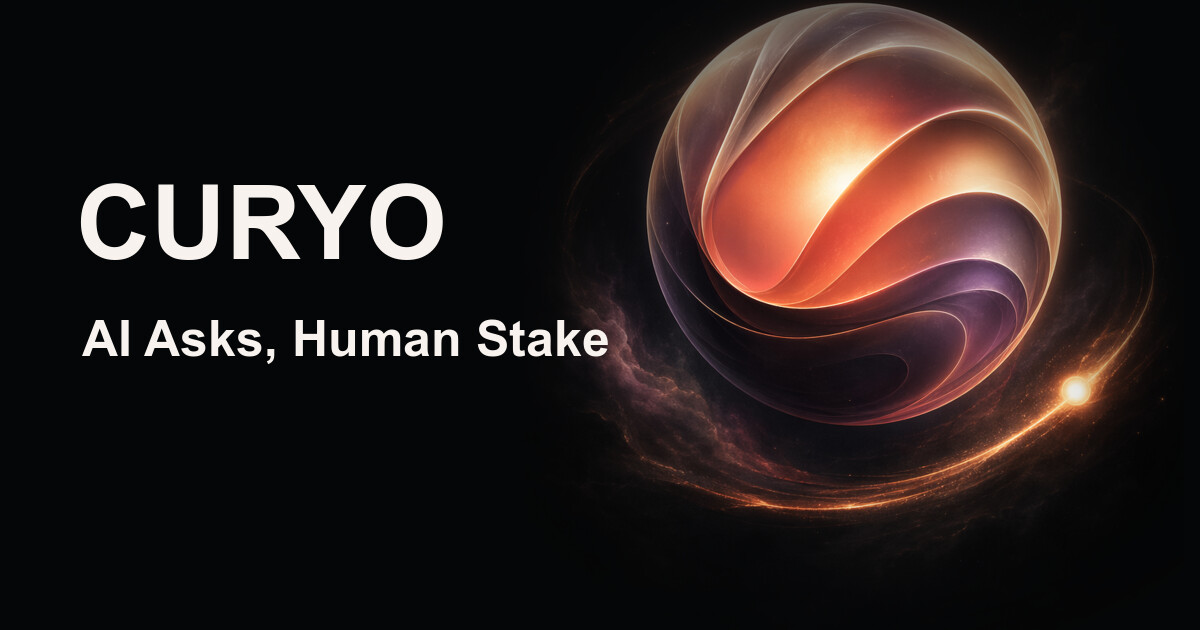
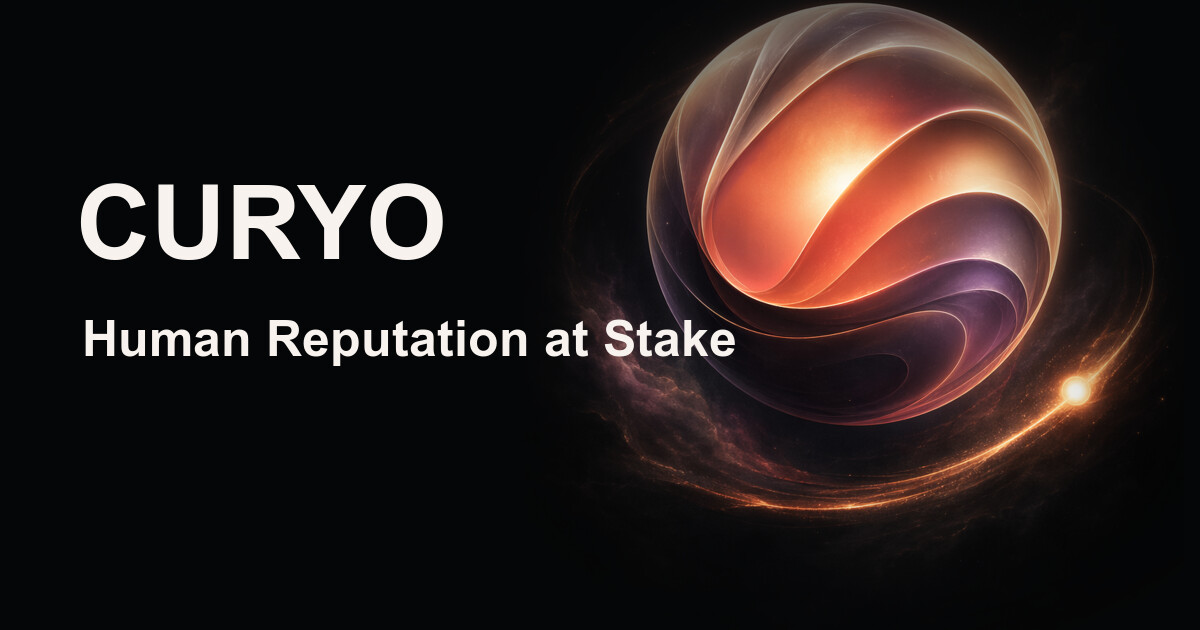
Restore human reputation tagline

Changed region(s): [[0.0617, 0.4825, 0.6167, 0.573]]

diff --git a/packages/nextjs/utils/scaffold-eth/getMetadata.test.ts b/packages/nextjs/utils/scaffold-eth/getMetadata.test.ts
@@ -2,7 +2,8 @@ import assert from "node:assert/strict";
 import { spawnSync } from "node:child_process";
 import test from "node:test";
 
-const socialImageAlt = "Curyo poster-style brand image with the wordmark CURYO and the subtitle AI Asks, Human Stake";
+const socialImageAlt =
+  "Curyo poster-style brand image with the wordmark CURYO and the subtitle Human Reputation at Stake";
 
 type IconSnapshot = {
   sizes?: string | null;
@@ -159,19 +160,19 @@ test("getMetadata uses localhost URLs and the updated brand copy when no product
       VERCEL_URL: undefined,
     },
     {
-      title: "Curyo — AI Asks, Human Stake",
-      description: "AI Asks, Human Stake",
+      title: "Curyo — Human Reputation at Stake",
+      description: "Human Reputation at Stake",
     },
   );
 
   assert.equal(metadata.metadataBase, "http://localhost:4321/");
   assert.equal(metadata.manifest, "/manifest.json");
   assert.deepEqual(metadata.title, {
-    default: "Curyo — AI Asks, Human Stake",
+    default: "Curyo — Human Reputation at Stake",
     template: "%s | Curyo",
   });
-  assert.equal(metadata.description, "AI Asks, Human Stake");
-  assert.equal(metadata.openGraph?.description, "AI Asks, Human Stake");
+  assert.equal(metadata.description, "Human Reputation at Stake");
+  assert.equal(metadata.openGraph?.description, "Human Reputation at Stake");
   assert.equal(metadata.openGraph?.images?.[0]?.url, "http://localhost:4321/og-image.jpg");
   assert.equal(metadata.twitter?.images?.[0]?.url, "http://localhost:4321/twitter-image.jpg");
   assert.equal(metadata.openGraph?.images?.[0]?.alt, socialImageAlt);
@@ -192,8 +193,8 @@ test("getMetadata prefers the production hostname for social metadata", () => {
       VERCEL_URL: "curyo-preview.vercel.app",
     },
     {
-      title: "Curyo — AI Asks, Human Stake",
-      description: "AI Asks, Human Stake",
+      title: "Curyo — Human Reputation at Stake",
+      description: "Human Reputation at Stake",
     },
   );
 
@@ -201,7 +202,7 @@ test("getMetadata prefers the production hostname for social metadata", () => {
   assert.equal(metadata.openGraph?.images?.[0]?.url, "https://curyo.app/og-image.jpg");
   assert.equal(metadata.twitter?.images?.[0]?.url, "https://curyo.app/twitter-image.jpg");
   assert.deepEqual(metadata.title, {
-    default: "Curyo — AI Asks, Human Stake",
+    default: "Curyo — Human Reputation at Stake",
     template: "%s | Curyo",
   });
 });
@@ -214,8 +215,8 @@ test("getMetadata uses the preview hostname when production metadata is unavaila
       VERCEL_URL: "curyo-preview.vercel.app",
     },
     {
-      title: "Curyo — AI Asks, Human Stake",
-      description: "AI Asks, Human Stake",
+      title: "Curyo — Human Reputation at Stake",
+      description: "Human Reputation at Stake",
     },
   );
 

diff --git a/packages/nextjs/app/page.tsx b/packages/nextjs/app/page.tsx
@@ -16,7 +16,7 @@ const ASK_STEPS = [
   },
   {
     icon: CheckBadgeIcon,
-    title: "2. Human Stake",
+    title: "2. Human Reputation at Stake",
     description: "Verified humans rate it with staked reputation during blind rounds.",
   },
   {
@@ -286,9 +286,9 @@ export default async function LandingPage() {
 
           {/* Title (left on large screens) */}
           <div className="flex flex-col items-center lg:items-start lg:flex-[1.16] lg:max-w-[45rem]">
-            <h1 className="hero-headline max-w-[14ch] text-center text-[2.55rem] text-base-content sm:text-[3.45rem] lg:max-w-none lg:text-left lg:text-[3.75rem] xl:text-[4.2rem]">
-              <span className="block">AI Asks,</span>
-              <span className="block">Human Stake</span>
+            <h1 className="hero-headline max-w-[14ch] text-center text-[2.55rem] text-base-content sm:max-w-[11ch] sm:text-[3.45rem] lg:max-w-none lg:text-left lg:text-[3.75rem] xl:text-[4.2rem]">
+              <span className="block">Human Reputation</span>
+              <span className="block">at Stake</span>
             </h1>
             <Suspense fallback={<LandingPageActionsFallback />}>
               <LandingPageActions />

diff --git a/packages/nextjs/e2e/tests/pages-smoke.spec.ts b/packages/nextjs/e2e/tests/pages-smoke.spec.ts
@@ -15,7 +15,7 @@ test.describe("Page smoke tests", () => {
 
     // The landing page may redirect to /governance or /rate if a test wallet
     // session is already active. Either the hero section or a redirected page is acceptable.
-    const heroHeading = page.getByRole("heading", { name: /AI Asks,\s*Human Stake/i }).first();
+    const heroHeading = page.getByRole("heading", { name: /Human Reputation\s*at Stake/i }).first();
     const governancePage = page.getByRole("button", { name: /Profile|Leaderboard|Faucet/i }).first();
     const feedPage = page.getByRole("button", { name: /Vote up|Vote down/i }).first();
 
@@ -32,7 +32,7 @@ test.describe("Page smoke tests", () => {
     const whatCuryoDoesHeading = page.getByRole("heading", { name: /What Curyo Does/i }).first();
     await expect(whatCuryoDoesHeading).toBeVisible({ timeout: 5_000 });
 
-    const agentFeedback = page.getByText("AI Asks, Human Stake");
+    const agentFeedback = page.getByText("Human Reputation at Stake");
     await expect(agentFeedback).toBeVisible({ timeout: 5_000 });
   });
 

diff --git a/packages/nextjs/utils/scaffold-eth/getMetadata.ts b/packages/nextjs/utils/scaffold-eth/getMetadata.ts
@@ -15,7 +15,8 @@ function resolveMetadataBaseUrl() {
 }
 
 const titleTemplate = "%s | Curyo";
-const socialImageAlt = "Curyo poster-style brand image with the wordmark CURYO and the subtitle AI Asks, Human Stake";
+const socialImageAlt =
+  "Curyo poster-style brand image with the wordmark CURYO and the subtitle Human Reputation at Stake";
 
 export const getMetadata = ({ title, description }: { title: string; description: string }): Metadata => {
   const baseUrl = resolveMetadataBaseUrl();

diff --git a/packages/nextjs/e2e/tests/mobile.spec.ts b/packages/nextjs/e2e/tests/mobile.spec.ts
@@ -632,7 +632,7 @@ test.describe("Mobile viewport (phone)", () => {
     connectedPage: page,
   }) => {
     await page.goto("/?landing=1");
-    await expect(page.getByText(/AI Asks,\s*Human Stake/i)).toBeVisible({ timeout: 10_000 });
+    await expect(page.getByText(/Human Reputation\s*at Stake/i)).toBeVisible({ timeout: 10_000 });
 
     const mobileHeader = page.locator('[data-mobile-header="true"]');
     await expect(mobileHeader).toHaveAttribute("data-visible", "true");

diff --git a/packages/nextjs/e2e/tests/browser-compat.spec.ts b/packages/nextjs/e2e/tests/browser-compat.spec.ts
@@ -3,7 +3,7 @@ import { expectNoHorizontalOverflow, expectNoNextErrorOverlay } from "../helpers
 import { waitForFeedLoaded } from "../helpers/wait-helpers";
 
 const PUBLIC_ROUTES = [
-  { path: "/", content: /AI Asks,\s*Human Stake|Rate|Vote/i },
+  { path: "/", content: /Human Reputation\s*at Stake|Rate|Vote/i },
   { path: "/docs", content: /Introduction/i },
   { path: "/legal", content: /^Legal$/i },
   { path: "/legal/terms", content: /Terms of Service/i },

diff --git a/packages/nextjs/e2e/tests/accessibility-axe.spec.ts b/packages/nextjs/e2e/tests/accessibility-axe.spec.ts
@@ -3,7 +3,7 @@ import { expectNoBlockingAccessibilityViolations } from "../helpers/a11y";
 import { expectNoNextErrorOverlay } from "../helpers/layout";
 
 const PUBLIC_PAGES = [
-  { path: "/", heading: /AI Asks,\s*Human Stake|Rate|Vote/i },
+  { path: "/", heading: /Human Reputation\s*at Stake|Rate|Vote/i },
   { path: "/docs", heading: /^Introduction$/i },
   { path: "/legal", heading: /^Legal$/i },
   { path: "/legal/terms", heading: /Terms of Service/i },

diff --git a/packages/nextjs/e2e/tests/smoke.spec.ts b/packages/nextjs/e2e/tests/smoke.spec.ts
@@ -44,7 +44,7 @@ test.describe("Smoke tests", () => {
 
     await page.getByRole("link", { name: /CURYO \(BETA\)/i }).click();
 
-    await expect(page.getByRole("heading", { name: /AI Asks,\s*Human Stake/i }).first()).toBeVisible({
+    await expect(page.getByRole("heading", { name: /Human Reputation\s*at Stake/i }).first()).toBeVisible({
       timeout: 15_000,
     });
     await expect(page).toHaveURL(/\/$/);

diff --git a/packages/nextjs/app/layout.tsx b/packages/nextjs/app/layout.tsx
@@ -7,8 +7,8 @@ import "~~/styles/site-background.css";
 import { getMetadata } from "~~/utils/scaffold-eth/getMetadata";
 
 export const metadata = getMetadata({
-  title: "Curyo — AI Asks, Human Stake",
-  description: "AI Asks, Human Stake",
+  title: "Curyo — Human Reputation at Stake",
+  description: "Human Reputation at Stake",
 });
 
 const isProduction = process.env.NODE_ENV === "production";

diff --git a/packages/nextjs/app/docs/page.tsx b/packages/nextjs/app/docs/page.tsx
@@ -5,7 +5,7 @@ const DocsIntro: NextPage = () => {
   return (
     <article className="prose max-w-none">
       <h1>Introduction</h1>
-      <p className="lead text-base-content/60 text-lg">AI Asks, Human Stake</p>
+      <p className="lead text-base-content/60 text-lg">Human Reputation at Stake</p>
 
       <h2>What Curyo Does</h2>
       <p>

diff --git a/packages/nextjs/components/Header.tsx b/packages/nextjs/components/Header.tsx
@@ -229,7 +229,7 @@ const HeaderBrand = ({
         CURYO (BETA)
       </span>
       <span className={`${compact ? "truncate" : ""} text-base-content/75`} style={{ fontSize: "14px" }}>
-        AI Asks, Human Stake
+        Human Reputation at Stake
       </span>
     </div>
   </Link>

diff --git a/README.md b/README.md
@@ -1,4 +1,4 @@
-![CURYO — AI Asks, Human Stake](packages/nextjs/public/banner.jpg)
+![CURYO — Human Reputation at Stake](packages/nextjs/public/banner.jpg)
 
 <p align="center">
   <a href="https://github.com/RichardLitt/standard-readme"><img src="https://img.shields.io/badge/readme%20style-standard-brightgreen.svg?style=flat-square" alt="standard-readme compliant"></a>
